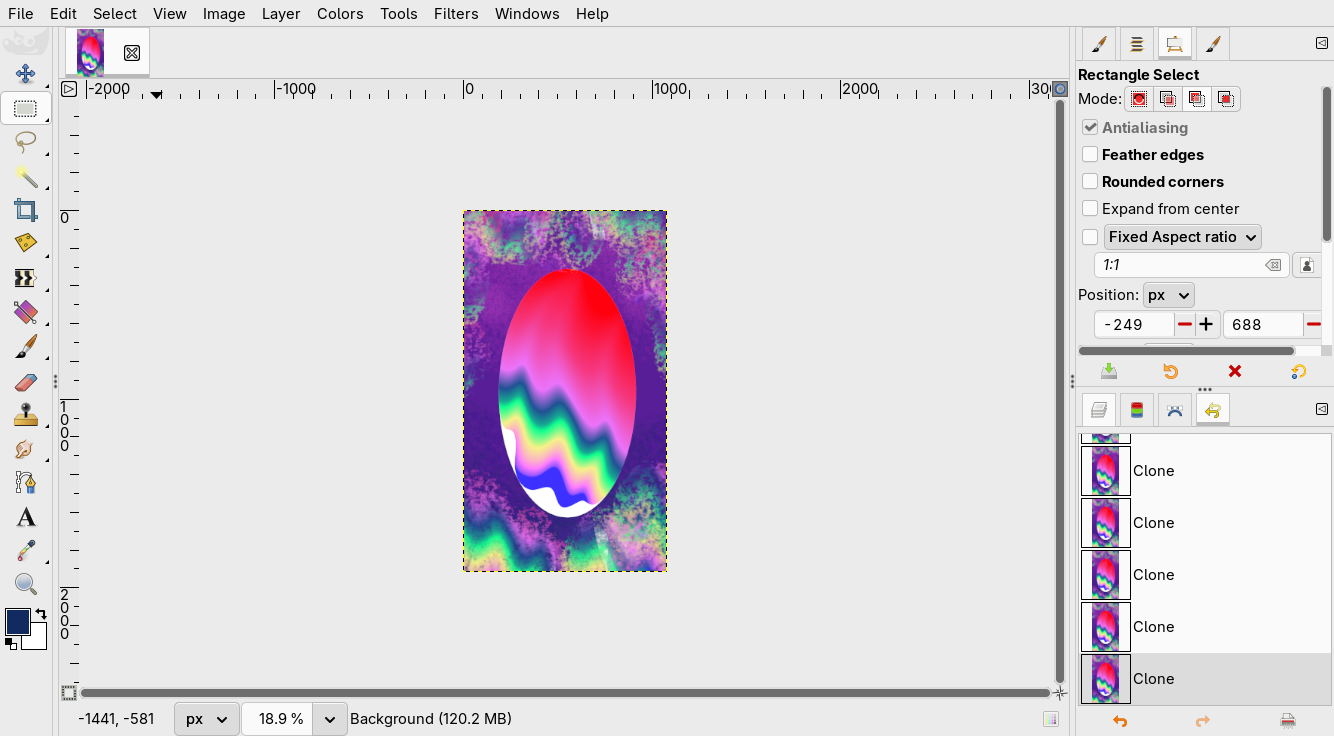
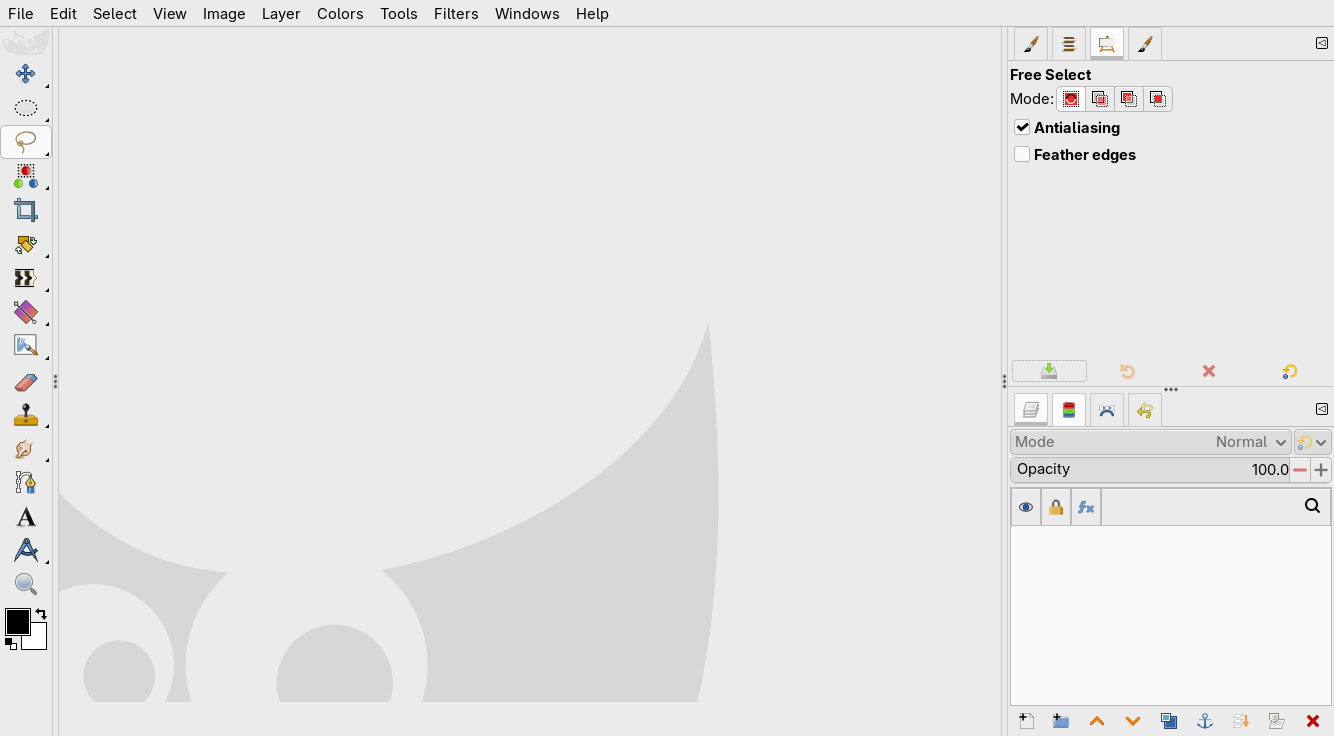
Update README and screenshots

diff --git a/README.md b/README.md
@@ -3,7 +3,19 @@ A vibrant, skeuomorphic GIMP icon theme
 
 For now, the only icons changed are the tool icons.
 
+## Screenshots
+
 ![A screenshot of the light variant of the theme.](screenshots/light.png)
+
+![A screenshot of the dark variant of the theme.](screenshots/dark.png.png)
+
+## Goals
+
+- Have seperate dark/light icons as dark theme requires white outlines, lower saturation and lighter colours. This does however make the theme harder to apply and annoying for users who regularly switch between light and dark.
+- Use a "skeuomorphic" style with 3D designs and color to make icons that are seen in real life (e.g. the rubber) recognisable
+- Use subtle highlights and shadows to give the icons some character and make them look realistic, not too much where they become hard to interpret and look dated
+- Where icons aren't meant to mimic real life objects, they can be flat instead of skeuomorphic (e.g. transform tools)
+- For the future: Not all icons must be colourful, e.g. why is the minus button red? This only looks distracting. 
 
 ## Building
 